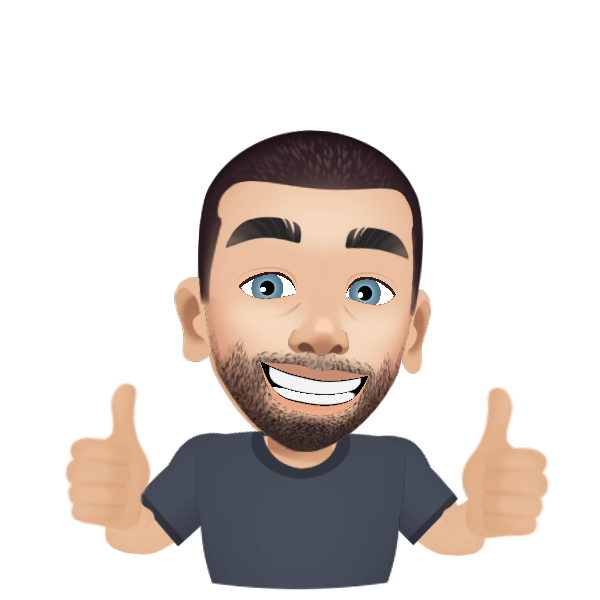
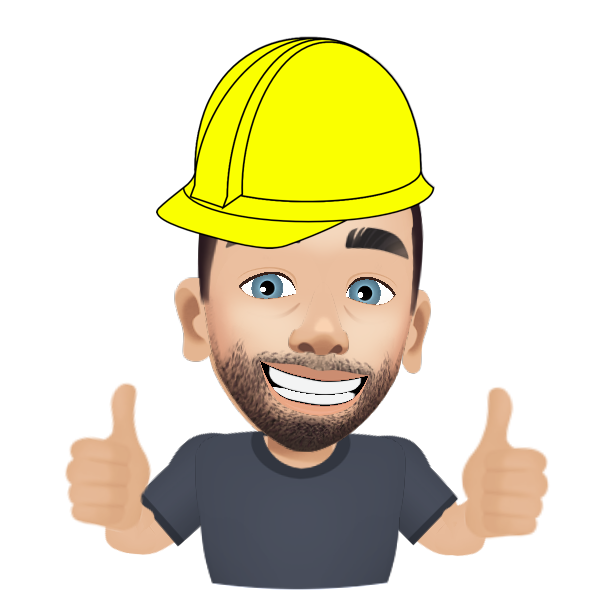
deploy: bbc3dce1040969abec14cc27cc30eb91cee0deb2

Changed region(s): [[0.24, 0.06, 0.72, 0.42]]

diff --git a/about/index.html b/about/index.html
@@ -1,5 +1,5 @@
 <!doctype html><html lang=en-us><head><link rel=icon href=/favicon_main.svg><meta charset=utf-8><meta name=viewport content="width=device-width,initial-scale=1,shrink-to-fit=no"><meta http-equiv=x-ua-compatible content="ie=edge"><meta property="og:url" content="https://www.selfiebuild.com/about/"><meta property="og:type" content="article"><meta property="og:title" content="About"><meta property="og:description" content><meta property="og:image:width" content="375"><meta property="og:image:height" content="250"><meta property="og:image" content="https://www.selfiebuild.com/images/default_summary_hu2be732aee21a2469ead3fe1f2df8caca_2088687_600x0_resize_q75_box.jpg"><title>SelfieBuild - About</title><link href="https://fonts.googleapis.com/css?family=Playball" rel=stylesheet><link href="https://fonts.googleapis.com/css?family=Open+Sans" rel=stylesheet><link href="https://fonts.googleapis.com/css?family=Open+Sans" rel=stylesheet><link rel=stylesheet type=text/css href=/css/style.ad595db20cb0b0b7476d93402f306a678b2ab64ecb9f9c60895ceb22ffaa7aed.css integrity="sha256-rVldsgywsLdHbZNALzBqZ4sqtk7Ln5xgiVzrIv+qeu0="><link rel=stylesheet type=text/css href=/css/monokai-sublime.9.15.8.min.91376415864fdd3a92be524052267afece4bdb1bb8c6c754f5e60c5ac28e93be.css integrity="sha256-kTdkFYZP3TqSvlJAUiZ6/s5L2xu4xsdU9eYMWsKOk74="><link rel=stylesheet type=text/css href=/css/icons.f72c0103ff9598115ab2a76351494b950570479ce3f1795fec13fc62e4185dcf.css integrity="sha256-9ywBA/+VmBFasqdjUUlLlQVwR5zj8Xlf7BP8YuQYXc8="><link rel=stylesheet type=text/css href=/css/refresh.ccfd23f8053a1571a3e474a6877f42a6a1924c6bbf1b64c7704b49a0353b4650.css integrity="sha256-zP0j+AU6FXGj5HSmh39CpqGSTGu/G2THcEtJoDU7RlA="><link rel=stylesheet type=text/css href=/css/devicon.min.149016fbf45c8bc157d6f55ce3ee875feaa3f90446bf7d151fbc16a9f21a8859.css integrity="sha256-FJAW+/Rci8FX1vVc4+6HX+qj+QRGv30VH7wWqfIaiFk="><script async src="https://www.googletagmanager.com/gtag/js?id=G-X5RLE40EDT"></script><script>window.dataLayer=window.dataLayer||[];function gtag(){dataLayer.push(arguments);}
 gtag('js',new Date());gtag('config','G-X5RLE40EDT');</script></head><body><div id=preloader><div id=status></div></div><nav class="navbar is-fresh is-transparent no-shadow" role=navigation aria-label="main navigation"><div class=container><div class=navbar-brand><a class=navbar-item><div class="menu-icon-wrapper left-menu-icon-wrapper" style=visibility:visible><svg width="1e3" height="1e3"><path class="path1" d="M3e2 4e2H7e2c2e2.0 2e2 350-1e2 450A4e2 4e2.0 012e2 2e2L8e2 8e2"/><path class="path2" d="M3e2 5e2H7e2"/><path class="path3" d="M7e2 6e2H3e2c-2e2.0-2e2-4e2 1e2-450A4e2 380 0 112e2 8e2L8e2 2e2"/></svg><button id=menu-icon-trigger class=menu-icon-trigger></button></div><div class="navbar-item left-menu-icon-wrapper">Tags</div></a><div class="navbar-item is-expanded"></div><a class="navbar-item is-hidden-desktop"><div data-target=navbar-menu class="navbar-item right-menu-icon-wrapper is-hidden-desktop">Menu</div><div data-target=navbar-menu class="menu-icon-wrapper right-menu-icon-wrapper" style=visibility:visible><svg width="1e3" height="1e3"><path class="path1" d="M3e2 4e2H7e2c2e2.0 2e2 350-1e2 450A4e2 4e2.0 012e2 2e2L8e2 8e2"/><path class="path2" d="M3e2 5e2H7e2"/><path class="path3" d="M7e2 6e2H3e2c-2e2.0-2e2-4e2 1e2-450A4e2 380 0 112e2 8e2L8e2 2e2"/></svg><button id=menu-icon-trigger class=menu-icon-trigger></button></div></a></div><div id=navbar-menu class="navbar-menu is-static"><div class=navbar-end><a href=/ class="navbar-item is-secondary">Home</a><a href=/about/ class="navbar-item is-secondary">About</a><a href=/reading/ class="navbar-item is-secondary">Reading List</a><a href=/posts/ class="navbar-item is-secondary">Blog</a></div></div></div></nav><nav id=navbar-clone class="navbar is-fresh is-transparent" role=navigation aria-label="main navigation"><div class=container><div class=navbar-brand><a class=navbar-item><div class="menu-icon-wrapper left-menu-icon-wrapper" style=visibility:visible><svg width="1e3" height="1e3"><path class="path1" d="M3e2 4e2H7e2c2e2.0 2e2 350-1e2 450A4e2 4e2.0 012e2 2e2L8e2 8e2"/><path class="path2" d="M3e2 5e2H7e2"/><path class="path3" d="M7e2 6e2H3e2c-2e2.0-2e2-4e2 1e2-450A4e2 380 0 112e2 8e2L8e2 2e2"/></svg><button id=menu-icon-trigger class=menu-icon-trigger></button></div><div class="navbar-item left-menu-icon-wrapper">Tags</div></a><div class="navbar-item is-expanded"></div><a class="navbar-item is-hidden-desktop"><div data-target=cloned-navbar-menu class="navbar-item right-menu-icon-wrapper is-hidden-desktop">Menu</div><div data-target=cloned-navbar-menu class="menu-icon-wrapper right-menu-icon-wrapper" style=visibility:visible><svg width="1e3" height="1e3"><path class="path1" d="M3e2 4e2H7e2c2e2.0 2e2 350-1e2 450A4e2 4e2.0 012e2 2e2L8e2 8e2"/><path class="path2" d="M3e2 5e2H7e2"/><path class="path3" d="M7e2 6e2H3e2c-2e2.0-2e2-4e2 1e2-450A4e2 380 0 112e2 8e2L8e2 2e2"/></svg><button id=menu-icon-trigger class=menu-icon-trigger></button></div></a></div><div id=cloned-navbar-menu class="navbar-menu is-static"><div class=navbar-end><a href=/ class="navbar-item is-secondary">Home</a><a href=/about/ class="navbar-item is-secondary">About</a><a href=/reading/ class="navbar-item is-secondary">Reading List</a><a href=/posts/ class="navbar-item is-secondary">Blog</a></div></div></div></nav><section class="section is-medium"><div class=container><div class=columns><div class="column is-centered-tablet-portrait"><h1 class="title is-2 section-title">About</h1><h5 class="subtitle is-5 is-muted"></h5><div class=divider></div><section class="section content has-text-justified"><p>Annette and Dan live in a rural village in Hampshire with our two young children. We have recently moved to a ½ acre plot with lots of trees and a bungalow which we are planning on knocking down to rebuild our family home. This blog will document the self build process from planning to a finished house, ideas, choices and general DIY, how we did it and what we learnt along the way.</p><p>Dan is a fan of DIY and will get stuck into many tasks which involves tools - from painting and decorating, fitting kitchens/bathrooms, building a shed from scratch, digging holes, fencing, decking, jet washing to car building and maintenance.
 Dream House must have - Large Garage with workshop.</p><p>Annette has watched too many episodes of Grand Designs and Building the Dream.
-Dream house must have - Bath with a view.</p><p>Lots of pictures and videos will follow once the building starts. Watch this space.</p><div class="columns is-centered container"><div class="column is-half"><figure><img class=rounded-corners src=/about/annette_hub8df77bfc062077b5ba47bed4e909540_604244_0x400_resize_box_2.png width=400 height=400></figure></div><div class="column is-half"><figure><img class=rounded-corners src=/about/dan_hudf0e834d822b64d9075aafcee78d5e20_140379_0x400_resize_box_2.png width=400 height=400></figure></div></div></section></div></div></div></section><footer class="footer footer-dark"><div class=container><div class=columns><div class=column><img src=/footer.svg alt></div><div class=column><div class=footer-column><div class=footer-header><h3>Navigation</h3></div><ul class=link-list><li><a href=/><span class=icon><i class="fa fa-home"></i></span>Home</a></li><li><a href=/tags/><span class=icon><i class="fa fa-tag"></i></span>Tags</a></li><li><a href=/about/><span class=icon><i class="fa fa-link"></i></span>About</a></li><li><a href=/reading/><span class=icon><i class="fa fa-link"></i></span>Reading List</a></li></ul></div></div><div class=column><div class=footer-column><div class=footer-header><h3>Social</h3></div><ul class=link-list><li><a href=https://www.youtube.com/channel/UCXJ9B1-LxqCfxuhjh2NOepw target=_blank><span class=icon><i class="fa fa-youtube"></i></span>YouTube</a></li></ul></div></div><div class=column><div class=footer-column><div class=footer-header><h3>Legal</h3></div><ul class=link-list><li><span class=icon><i class="fa fa-copyright"></i></span>SelfieBuild - 2021</li><li><span class=icon><i class="fa fa-edit"></i></span>Opinions are my own. Nothing on this Site constitutes professional and/or financial advice. May contain affiliate links. Site uses Google Analytics.</li></ul></div></div></div></div></footer><div id=backtotop><a href=#></a></div><div class="sidebar scroll"><div class=sidebar-header><img src=/sidebar.svg alt>
+Dream house must have - Bath with a view.</p><p>Lots of pictures and videos will follow once the building starts. Watch this space.</p><div class="columns is-centered container"><div class="column is-half"><figure><img class=rounded-corners src=/about/annette_hub8df77bfc062077b5ba47bed4e909540_604244_0x400_resize_box_2.png width=400 height=400></figure></div><div class="column is-half"><figure><img class=rounded-corners src=/about/dan_hu91dd8af8107fd2c654446371bf4dfad3_166711_0x400_resize_box_2.png width=400 height=400></figure></div></div></section></div></div></div></section><footer class="footer footer-dark"><div class=container><div class=columns><div class=column><img src=/footer.svg alt></div><div class=column><div class=footer-column><div class=footer-header><h3>Navigation</h3></div><ul class=link-list><li><a href=/><span class=icon><i class="fa fa-home"></i></span>Home</a></li><li><a href=/tags/><span class=icon><i class="fa fa-tag"></i></span>Tags</a></li><li><a href=/about/><span class=icon><i class="fa fa-link"></i></span>About</a></li><li><a href=/reading/><span class=icon><i class="fa fa-link"></i></span>Reading List</a></li></ul></div></div><div class=column><div class=footer-column><div class=footer-header><h3>Social</h3></div><ul class=link-list><li><a href=https://www.youtube.com/channel/UCXJ9B1-LxqCfxuhjh2NOepw target=_blank><span class=icon><i class="fa fa-youtube"></i></span>YouTube</a></li></ul></div></div><div class=column><div class=footer-column><div class=footer-header><h3>Legal</h3></div><ul class=link-list><li><span class=icon><i class="fa fa-copyright"></i></span>SelfieBuild - 2021</li><li><span class=icon><i class="fa fa-edit"></i></span>Opinions are my own. Nothing on this Site constitutes professional and/or financial advice. May contain affiliate links. Site uses Google Analytics.</li></ul></div></div></div></div></footer><div id=backtotop><a href=#></a></div><div class="sidebar scroll"><div class=sidebar-header><img src=/sidebar.svg alt>
 <a class=sidebar-close href=javascript:void(0);><i data-feather=x></i></a></div><div class=inner><ul class=sidebar-menu><li class=no-children><a href=/tags/><div class=columns><table width=100%><tr><td><span class=icon><i class="fa fa-cubes"></i></span>All Tags</td><td class=has-text-right></td></tr></table></div></a><li class=no-children><a href=/tags/pre-build><div class=columns><table width=100%><tr><td><span class=icon><i class="fa fa-cube"></i></span>pre-build</td><td class=has-text-right><div class=tag-number>3</div></td></tr></table></div></a></li><li class=no-children><a href=/tags/stage1><div class=columns><table width=100%><tr><td><span class=icon><i class="fa fa-cube"></i></span>stage1</td><td class=has-text-right><div class=tag-number>1</div></td></tr></table></div></a></li><li class=no-children><a href=/tags/tax><div class=columns><table width=100%><tr><td><span class=icon><i class="fa fa-cube"></i></span>tax</td><td class=has-text-right><div class=tag-number>1</div></td></tr></table></div></a></li></ul></div></div><script src=/js/jquery-2.2.4.893e90f6230962e42231635df650f20544ad22affc3ee396df768eaa6bc5a6a2.js integrity="sha256-iT6Q9iMJYuQiMWNd9lDyBUStIq/8PuOW33aOqmvFpqI="></script><script src=/js/feather.4.22.0.1ab07abeb9975f283f6b5f29451981be680fbf77ea778f991d457511d210476a.js integrity="sha256-GrB6vrmXXyg/a18pRRmBvmgPv3fqd4+ZHUV1EdIQR2o="></script><script src=/js/modernizr-3.6.0.e013a1e54e3c19d83537ba42b900d34451e5e4b2e789be27a02ac9b152edb741.js integrity="sha256-4BOh5U48Gdg1N7pCuQDTRFHl5LLnib4noCrJsVLtt0E="></script><script src=/js/refresh.62c1a9b7d85bcf4d944cd585a01dfa8fb15112a7d2cf9fb819db20493bfe7484.js integrity="sha256-YsGpt9hbz02UTNWFoB36j7FREqfSz5+4GdsgSTv+dIQ="></script><script>window.MathJax={loader:{load:['core','input/tex-base','output/chtml'],source:{'core':'\/js\/mathjax\/core.d48fedf25c74c54fa6bf79646de92b02155872bdc4f5f7d0bbfc662523d8b4f5.js','input/tex-base':'\/js\/mathjax\/tex-base.1b68b8741dfc54e8f7222f88bea8ffcfc57ac54b2a2d8f4edf6800aa44d49441.js','output/chtml':'\/js\/mathjax\/chtml.926cd166e0f8c1f8a566a718d60c9c58a2b7142b156d30d5f02cec7c3b0ad60a.js','output/chtml/fonts/tex':'\/js\/mathjax\/tex_out.b8b2bb939c0dae84bf1390bfe6d32af13e83f647cdac01d544d2a7a517477e9d.js'},},chtml:{fontURL:'/fonts'},};</script><script src=/js/mathjax/startup.234a2513e6bdbc1eee06ca19abceca30fe4034e82afb373c08274c1ba2feb1a6.js integrity="sha256-I0olE+a9vB7uBsoZq87KMP5ANOgq+zc8CCdMG6L+saY="></script><script src=/js/highlight.9.18.1.b1c58829c55afcc1f568022af4b08ed8976da404d2990b7535bd8e19c0e3310c.js integrity="sha256-scWIKcVa/MH1aAIq9LCO2JdtpATSmQt1Nb2OGcDjMQw="></script><script src=/js/highlightjs-line-numbers.2.7.0.min.ddfe282e07b7ec1ed069c23f92c7c8216ddb3f1879c4e962d37fd52adbd15a05.js integrity="sha256-3f4oLge37B7QacI/ksfIIW3bPxh5xOli03/VKtvRWgU="></script><script>hljs.initHighlightingOnLoad();hljs.initLineNumbersOnLoad();document.addEventListener('DOMContentLoaded',(event)=>{document.querySelectorAll('.codeinline').forEach((block)=>{hljs.highlightBlock(block);});});</script></body></html>
